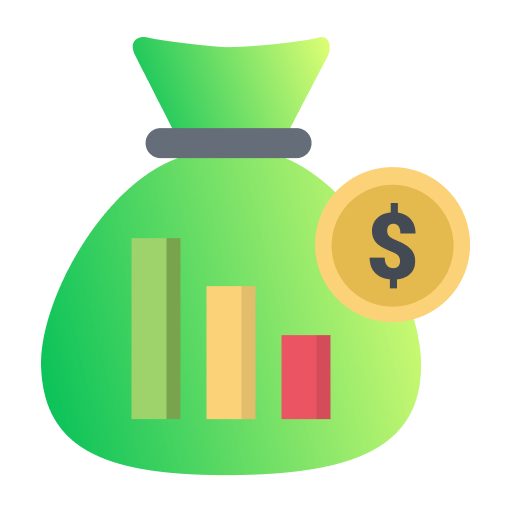
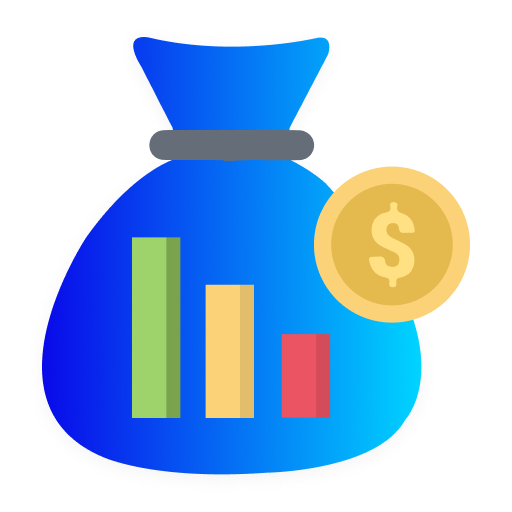
fixed  default image not laod issue on message page. and comment out unused code.

diff --git a/src/container/messages/Messages.js b/src/container/messages/Messages.js
@@ -5,17 +5,17 @@ import people from '../../components/images/people.png'
 import files from '../../components/images/files.png'
 import notepad from '../../components/images/notepad.png'
 import cross from '../../components/images/cross.png'
-import phone from '../../components/images/phone.png'
+// import phone from '../../components/images/phone.png'
 import iicon from '../../components/images/iicon.svg'
 import paper from '../../components/images/paper.svg'
-import paperpin from '../../components/images/paperpin.svg'
-import attherate from '../../components/images/attherate.svg'
-import smiley from '../../components/images/smiley.svg'
+// import paperpin from '../../components/images/paperpin.svg'
+// import attherate from '../../components/images/attherate.svg'
+// import smiley from '../../components/images/smiley.svg'
 import vthreedots from '../../components/images/vthreedots.svg'
-import AudioVisualizer from './AudioVisualizer'
-import file_example_MP3_5MG from '../../components/images/file_example_MP3_5MG.mp3'
-import AudioMessages from './AudioMessages'
-import Drawer from '@mui/material/Drawer';
+// import AudioVisualizer from './AudioVisualizer'
+// import file_example_MP3_5MG from '../../components/images/file_example_MP3_5MG.mp3'
+// import AudioMessages from './AudioMessages'
+// import Drawer from '@mui/material/Drawer';
 import { useSelector } from 'react-redux'
 import useWebSocket, { ReadyState } from "react-use-websocket";
 import InfiniteScroll from "react-infinite-scroll-component";
@@ -24,7 +24,7 @@ import { useLocation } from "react-router-dom";
 import axios from 'axios';
 
 const Messages = () => {
-  const audioSrc = {file_example_MP3_5MG}
+  // const audioSrc = {file_example_MP3_5MG}
   const location = useLocation()
   const logindata = useSelector(state => state.login.login_data) || JSON.parse(localStorage.getItem('logindata'));
   const conversationName = location.state && location.state.conversationName
@@ -338,11 +338,11 @@ console.log("conversations",conversations)
         <div className="overflow-y-auto">
           {conversations != null ? conversations.map((convo, index) => (
           // <>{convo.from_user.id != logindata.id ?
-        <div key={index} onClick={() => convoname(convo.name, convo.from_user.id != logindata.id ? convo.from_user : convo.to_user)} class="flex flex-row py-4 px-2 justify-center items-center border-b-2 cursor-pointer hover:bg-green-50 active:bg-green-100">
+        <div key={index} onClick={() => convoname(convo.name, convo.from_user.id != logindata.id ? convo.from_user : convo.to_user)} class="flex flex-row py-4 px-2 justify-center items-center border-b-2 cursor-pointer hover:bg-blue-50 active:bg-blue-100">
           <div class="w-1/4 ml-4">
             <div className="relative">
               <img
-                src={convo.from_user.id != logindata.id ? "https://www.api.alanced.com"+convo.from_user.images_logo : "https://www.api.alanced.com"+convo.to_user.images_logo}
+                src={convo.from_user.id != logindata.id ? convo.from_user.images_logo == "/static/images/blank.png" ? "https://www.api.alanced.com"+"/media/images/blank.png" : "https://www.api.alanced.com"+convo.from_user.images_logo : convo.to_user.images_logo == "/static/images/blank.png" ? "https://www.api.alanced.com"+"/media/images/blank.png" : "https://www.api.alanced.com"+convo.to_user.images_logo}
                 class="object-cover h-12 w-12 rounded-full"
                 alt=""
               />
@@ -599,7 +599,7 @@ console.log("conversations",conversations)
         <div class="flex flex-col items-center w-full border-b-2">
           {/* <div class="font-semibold text-xl py-4">Mern Stack Group</div> */}
           <img
-            src={"https://www.api.alanced.com"+convouser.images_logo}
+            src={convouser.images_logo == "/static/images/blank.png" ? "https://www.api.alanced.com"+"/media/images/blank.png" : "https://www.api.alanced.com"+convouser.images_logo}
             class="object-cover rounded-full h-28 w-28 mt-12"
             alt=""
           />

diff --git a/src/components/Layout/HomeSection.js b/src/components/Layout/HomeSection.js
@@ -15,7 +15,7 @@ const Section = () => {
     return(
         <>
       <section className='flex justify-center'>
-        <div className='lg:w-[77vw] w-[95vw] bg-white -mt-[46px] p-2 lg:h-24 rounded-2xl lg:flex justify-center items-center shadow-lg'>
+        <div className='lg:w-[77vw] w-[95vw] bg-white -mt-[57px] p-2 lg:h-24 rounded-2xl lg:flex justify-center items-center shadow-lg'>
           <div className='flex flex-row p-4 lg:border-r-2 lg:border-r-[#1C3865]'>
             {/* <img src={search} alt="search icon" /> */}
             <input
